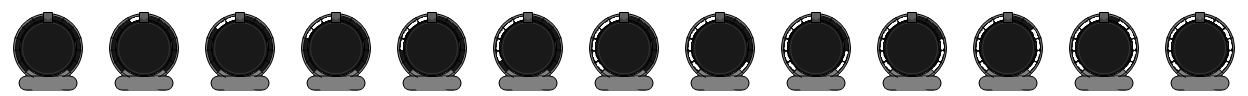
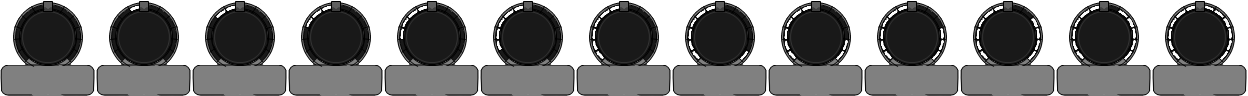
hud

diff --git a/GlamourJam/GlamourJam/HUD.cs b/GlamourJam/GlamourJam/HUD.cs
@@ -55,11 +55,11 @@ namespace GlamourJam
             playerFrame = new Sprite();
 
             playerFrame.Position.X = (size.X / 2) -(96 / 2);
-            playerFrame.Position.Y = this.Position.Y - 15;
+            playerFrame.Position.Y = this.Position.Y;
             playerFrame.Scale /= Controller.CurrentDrawCamera.zoom;
 
             playerImage.Position.X = playerFrame.Position.X + ((96 - 20) / 2) - (playerImage.Width / 2);
-            playerImage.Position.Y = this.Position.Y + ((96 - 32) / 2);
+            playerImage.Position.Y = this.Position.Y + ((96 - 65) / 2);
             playerImage.Scale /= Controller.CurrentDrawCamera.zoom;
 
             playerFrame.LoadTexture(Controller.Content.Load<Texture2D>(@"Assets/peter4croisants"), 96, 96);
@@ -72,8 +72,8 @@ namespace GlamourJam
             this.playerImage.Color = player.image.Color;
 
             this.playerTickets = new Label(player.score.ToString(), Controller.FontController.GetFont("DefaultFont"));
-            this.playerTickets.Position = new Vector2(playerImage.Position.X, this.Position.Y + 90);
-            this.playerTickets.Scale /= Controller.CurrentDrawCamera.zoom;
+            this.playerTickets.Position = new Vector2(playerImage.Position.X + 10, this.Position.Y + 115);
+            this.playerTickets.Scale /= Controller.CurrentDrawCamera.zoom - 0.3f;
 
             this.AddChild(playerFrame);
             this.AddChild(playerImage);
